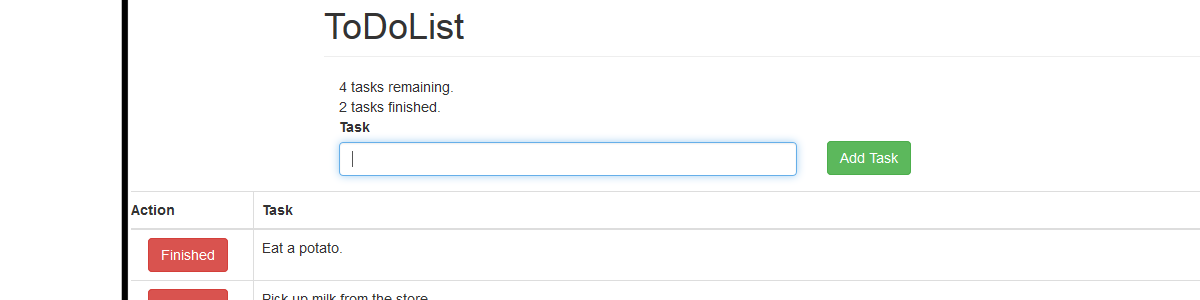
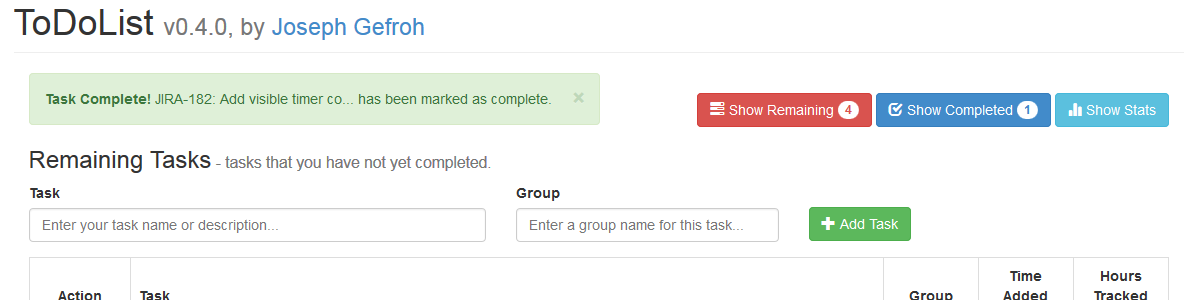
Updated ToDoList and resume.

Changed region(s): [[0.0, 0.0, 1.0, 1.0], [0.0, 0.63, 0.0617, 0.66]]

diff --git a/project-todolist.html b/project-todolist.html
@@ -19,9 +19,12 @@ caption: gets stuff done.
 	<br />
     <br />
 
-    {% include carousel_start.html id="screenshots" numadditionalslides="0" %}
+    {% include carousel_start.html id="screenshots" numadditionalslides="3" %}
     {% include carousel_item.html imgsrc="images/project-todolist-1.png" isactive="active" %}
-    {% include carousel_end.html  id="screenshots" numslides="1"%}
+    {% include carousel_item.html imgsrc="images/project-todolist-2.png" %}
+    {% include carousel_item.html imgsrc="images/project-todolist-3.png" %}
+    {% include carousel_item.html imgsrc="images/project-todolist-4.png" %}
+    {% include carousel_end.html  id="screenshots" numslides="4"%}
 
     <hr class="hr-small">
     <div class="row">
@@ -30,7 +33,7 @@ caption: gets stuff done.
     </div>
 	<hr class="hr-small">
             <p>
-                I am making ToDoList as an exercise to help me learn AngularJS. It is a simple application and currently has messy code. I'm sure it will improve over time as I learn AngularJS and best practices for creating web applications with it.
+                I'm making a To Do List to learn about web application development with AngularJS. I chose a To Do List so that I could keep track of the hours I spent
+                on a task while at work and fill out my timesheet more easily. The application's codebase is gradually improving as I learn about AngularJS and its best practices and coding styles.
             </p>
-            
 </div>

diff --git a/resume.html b/resume.html
@@ -105,7 +105,7 @@ caption: is not currently seeking employment.
     <p class="lead">5 years of experience</p>
     <p class="lead">* Designed and implemented multiple static web sites using HTML and CSS.
     <br />* Developed dynamic web applications using HTML/CSS front ends and Java backends.
-    <br />* Familiar with Javascript and PHP syntax and theory.
+    <br />* Familiar with AngularJS.
     </p>
   </div>
 </div>
@@ -168,6 +168,9 @@ caption: is not currently seeking employment.
     <p class="lead">* Designed and programmed enterprise software as a full stack developer.
     <br />* Developed software that fulfills the business needs of clients, both in teams and independently.
     <br />* Programmed software including web applications, legacy overhauls, and backend web services.
+    <br />* Mentored junior developers to teach them coding, best practices, technologies, and designs.
+    <br />* Introduced technologies and development practices which were adopted as organizational standards.
+    <br />* Fulfilled responsibilities as technical/development lead on a team of 4 developers.
     </p>
   </div>
 </div>
